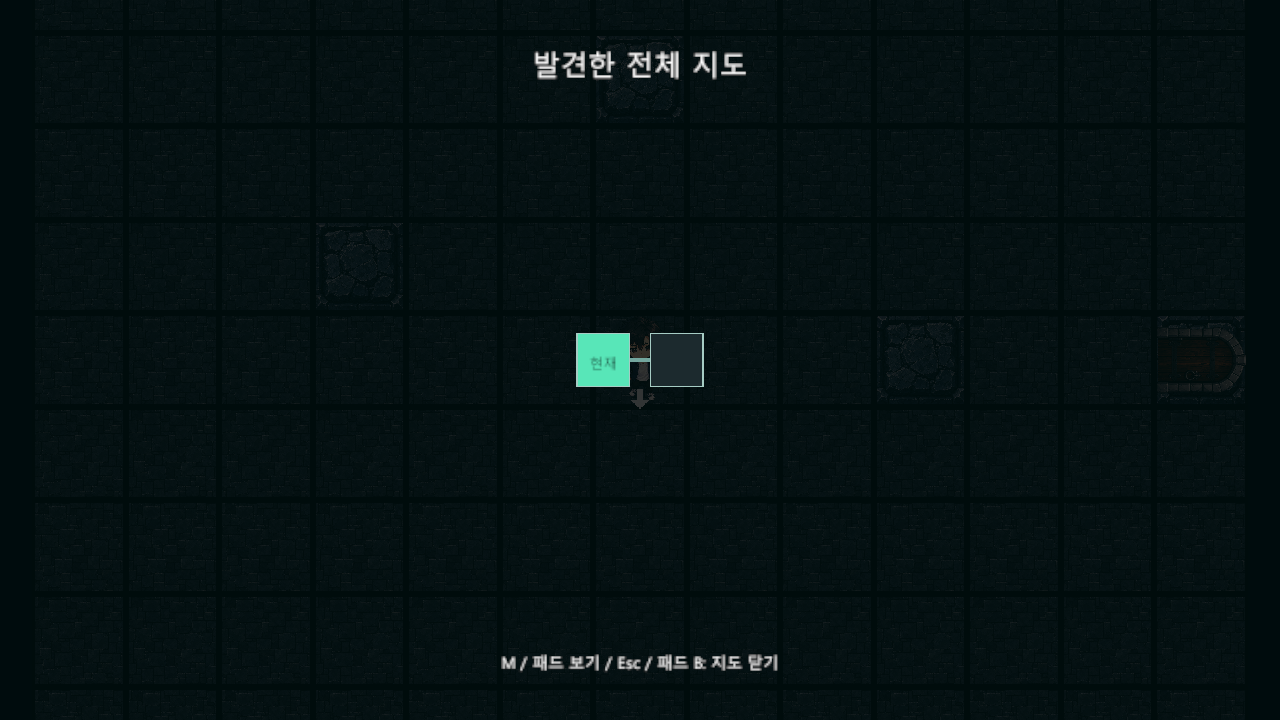
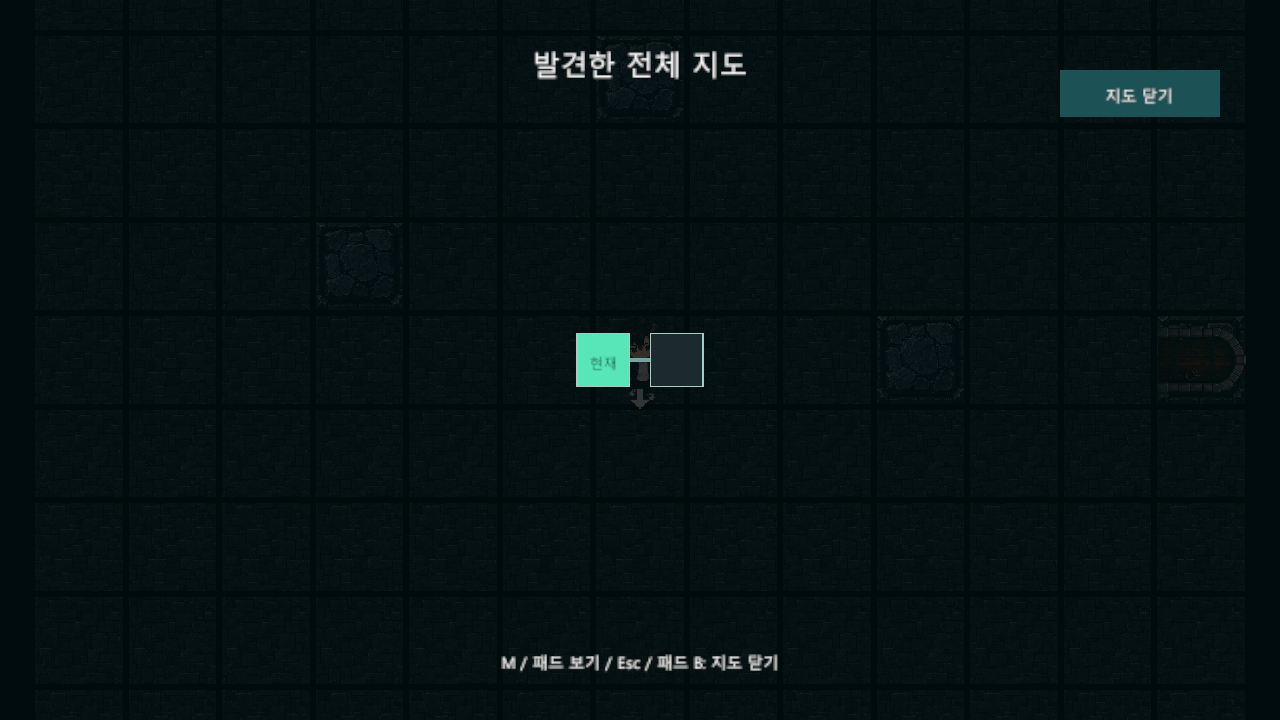
36일차 : 마우스 지도 버튼 추가
- 마우스 전체 지도 열기와 닫기 버튼 추가
- 클릭 이벤트 처리와 탐험 복귀 검증 추가
- 최신 플레이 화면과 검증 기록 수정

Changed region(s): [[0.8125, 0.0917, 0.9688, 0.1833]]

diff --git a/Assets/ProjectDelta/Runtime/MapPointerButton.cs b/Assets/ProjectDelta/Runtime/MapPointerButton.cs
@@ -1,0 +1,53 @@
+using System; // 버튼 동작 전달
+using UnityEngine; // 화면 위치와 객체
+using UnityEngine.InputSystem; // 마우스 입력
+using UnityEngine.UI; // 버튼 배경 표시
+namespace ProjectDelta.Runtime // 실행 이름 공간
+{ // 이름 공간 시작
+    public sealed class MapPointerButton : MonoBehaviour // 지도 화면용 마우스 버튼
+    { // 클래스 시작
+        private RectTransform rect; // 버튼 화면 영역
+        private Action action; // 클릭 시 실행할 동작
+        private int createdFrame; // 버튼 생성 프레임
+        private InputAction click; // 마우스 클릭 감지 동작
+        public static MapPointerButton Create(Transform parent, string name, string label, Vector2 position, Action onClick) // 지도 버튼 생성
+        { // 생성 시작
+            var button = new GameObject(name, typeof(RectTransform), typeof(Image), typeof(MapPointerButton)); // 버튼 화면 객체
+            button.transform.SetParent(parent, false); // 지정 화면에 배치
+            var view = button.GetComponent<MapPointerButton>(); // 버튼 입력 제어
+            view.rect = button.GetComponent<RectTransform>(); // 버튼 영역 연결
+            view.rect.anchoredPosition = position; // 버튼 화면 위치
+            view.rect.sizeDelta = new Vector2(240f, 70f); // 버튼 표시 크기
+            view.action = onClick; // 실제 클릭 동작 연결
+            view.createdFrame = Time.frameCount; // 생성 프레임의 중복 클릭 차단
+            view.click = new InputAction(name + "Click", InputActionType.Button, "<Mouse>/leftButton"); // 개별 마우스 클릭 감지
+            view.click.performed += view.OnClick; // 입력 이벤트 연결
+            view.click.Enable(); // 마우스 클릭 감지 시작
+            var image = button.GetComponent<Image>(); // 버튼 배경 이미지
+            image.color = new Color(0.12f, 0.32f, 0.34f, 0.96f); // 선명한 버튼 배경
+            image.raycastTarget = false; // 다른 UI 입력 가림 방지
+            UiFactory.CreateText(button.transform, "Label", label, 25, Vector2.zero, view.rect.sizeDelta, Color.white); // 버튼 이름 표시
+            return view; // 완성한 버튼 전달
+        } // 생성 끝
+        private void OnClick(InputAction.CallbackContext context) // 마우스 클릭 위치 검사
+        { // 클릭 검사 시작
+            var mouse = context.control.device as Mouse; // 실제 클릭한 마우스 장치
+            if (Time.frameCount <= createdFrame || mouse == null) // 생성 프레임과 장치 검사
+            { // 입력 제외 조건 시작
+                return; // 열린 화면의 중복 클릭 차단
+            } // 입력 제외 조건 끝
+            if (RectTransformUtility.RectangleContainsScreenPoint(rect, mouse.position.ReadValue(), null)) // 버튼 안쪽 클릭 검사
+            { // 클릭 조건 시작
+                action?.Invoke(); // 지도 열기 또는 닫기 실행
+            } // 클릭 조건 끝
+        } // 클릭 검사 끝
+        private void OnDestroy() // 마우스 입력 정리
+        { // 정리 시작
+            if (click != null) // 입력 동작 존재 검사
+            { // 정리 조건 시작
+                click.performed -= OnClick; // 클릭 이벤트 연결 해제
+                click.Dispose(); // 입력 동작과 리소스 정리
+            } // 정리 조건 끝
+        } // 정리 끝
+    } // 클래스 끝
+} // 이름 공간 끝

diff --git a/Assets/ProjectDelta/Tests/PlayMode/DungeonRuntimeGenerationTests.cs b/Assets/ProjectDelta/Tests/PlayMode/DungeonRuntimeGenerationTests.cs
@@ -229,6 +229,33 @@ namespace ProjectDelta.Tests // 검증 이름 공간
             yield return null; // 다음 입력 처리 대기
             Assert.That(AppRoot.Instance.Flow.Phase, Is.EqualTo(GamePhase.Exploration)); // 취소가 타이틀 복귀로 전달되지 않음
         } // 검증 끝
+        [UnityTest] // 마우스 전체 지도 열기와 닫기 검증
+        public IEnumerator FullMap_OpensAndClosesWithMouseButtons() // 마우스 버튼의 지도 왕복 확인
+        { // 검증 시작
+            yield return EnterDungeon(); // 실제 던전 진입
+            var mouse = InputSystem.AddDevice<Mouse>(); // 시험 마우스 연결
+            InputSystem.Update(); // 입력 장치 반영
+            yield return null; // 입력 준비 대기
+            var open = GameObject.Find("MapOpenButton"); // 탐험 화면의 지도 열기 버튼
+            Assert.That(open, Is.Not.Null); // 지도 열기 버튼 존재 확인
+            var openPosition = RectTransformUtility.WorldToScreenPoint(null, open.GetComponent<RectTransform>().position); // 열기 버튼 화면 좌표
+            InputSystem.QueueStateEvent(mouse, new MouseState { position = openPosition }.WithButton(MouseButton.Left)); // 열기 버튼 클릭
+            InputSystem.Update(); // 클릭 입력 반영
+            yield return null; // 지도 열기 처리 대기
+            Assert.That(AppRoot.Instance.Flow.Phase, Is.EqualTo(GamePhase.FullMap)); // 마우스의 지도 진입 확인
+            InputSystem.QueueStateEvent(mouse, new MouseState { position = openPosition }); // 마우스 버튼 해제
+            InputSystem.Update(); // 버튼 해제 반영
+            yield return null; // 해제 처리 대기
+            var close = GameObject.Find("MapCloseButton"); // 지도 화면의 닫기 버튼
+            Assert.That(close, Is.Not.Null); // 지도 닫기 버튼 존재 확인
+            var closePosition = RectTransformUtility.WorldToScreenPoint(null, close.GetComponent<RectTransform>().position); // 닫기 버튼 화면 좌표
+            InputSystem.QueueStateEvent(mouse, new MouseState { position = closePosition }.WithButton(MouseButton.Left)); // 닫기 버튼 클릭
+            InputSystem.Update(); // 클릭 입력 반영
+            yield return null; // 지도 닫기 처리 대기
+            Assert.That(AppRoot.Instance.Flow.Phase, Is.EqualTo(GamePhase.Exploration)); // 마우스의 탐험 복귀 확인
+            Assert.That(AppRoot.Instance.Input.IsExplorationEnabled, Is.True); // 탐험 입력 복구 확인
+            InputSystem.RemoveDevice(mouse); // 시험 마우스 연결 해제
+        } // 검증 끝
         [UnityTest] // 게임패드의 전체 지도 열기와 닫기 검증
         public IEnumerator FullMap_TogglesWithGamepadSelect() // 보기 버튼의 지도 왕복 확인
         { // 검증 시작

diff --git a/Assets/ProjectDelta/Runtime/FullMapScreenView.cs b/Assets/ProjectDelta/Runtime/FullMapScreenView.cs
@@ -26,6 +26,7 @@ namespace ProjectDelta.Runtime // 실행 이름 공간
                 backImage.raycastTarget = false; // 다른 입력 방해 방지
                 UiFactory.CreateText(canvas.transform, "Title", "발견한 전체 지도", 42, new Vector2(0f, 450f), new Vector2(1000f, 80f), Color.white); // 지도 제목
                 UiFactory.CreateText(canvas.transform, "CloseHint", "M / 패드 보기 / Esc / 패드 B: 지도 닫기", 24, new Vector2(0f, -450f), new Vector2(1100f, 60f), Color.white); // 지도 닫기 안내
+                MapPointerButton.Create(canvas.transform, "MapCloseButton", "지도 닫기", new Vector2(750f, 400f), AppRoot.Instance.CloseFullMap); // 마우스 지도 닫기 버튼
                 DrawMap(canvas.transform, travel); // 발견된 방과 연결 표시
                 return screen.GetComponent<FullMapScreenView>(); // 완성한 지도 화면 전달
             } // 구성 끝

diff --git a/Assets/ProjectDelta/Runtime/DungeonScreenView.cs b/Assets/ProjectDelta/Runtime/DungeonScreenView.cs
@@ -28,6 +28,7 @@ namespace ProjectDelta.Runtime // 실행 이름 공간
             DungeonMiniMap.Create(canvas.transform, travel); // 발견한 방의 미니맵 생성
             if (AppRoot.Instance != null) // 공통 게임 객체 존재 검사
             { // 인벤토리 연결 시작
+                MapPointerButton.Create(canvas.transform, "MapOpenButton", "전체 지도", new Vector2(750f, 190f), AppRoot.Instance.OpenFullMap); // 마우스 지도 열기 버튼
                 AppRoot.Instance.InventoryClosed += ClearDoorNotice; // 인벤토리 복귀 시 안내 초기화
             } // 인벤토리 연결 끝
             if (travel != null && travel.IsReady) // 생성된 방 구조와 실제 상태 검사

diff --git a/Assets/ProjectDelta/Editor/DayThirtySixProjectSetup.cs b/Assets/ProjectDelta/Editor/DayThirtySixProjectSetup.cs
@@ -1,0 +1,12 @@
+using UnityEditor; // 편집기 메뉴
+namespace ProjectDelta.Editor // 제작 도구 이름 공간
+{ // 이름 공간 시작
+    public static class DayThirtySixProjectSetup // 36일차 Windows 빌드
+    { // 클래스 시작
+        [MenuItem("Project Delta/36일차/Windows 빌드")] // 편집기 빌드 메뉴
+        public static void BuildWindows() // 36일차 실행 파일 빌드
+        { // 빌드 시작
+            DayOneProjectSetup.BuildWindowsAt("Builds/Day36"); // 기존 빌드와 분리된 출력 경로
+        } // 빌드 끝
+    } // 클래스 끝
+} // 이름 공간 끝

diff --git a/README.md b/README.md
@@ -22,7 +22,7 @@
 
 Unity Hub에서 저장소 폴더를 프로젝트로 추가하고 `Assets/ProjectDelta/Scenes/BootstrapScene.unity`를 열어 Play를 실행한다.
 
-타이틀에서 새 게임을 선택하면 던전에 진입하고, 관찰 기록을 선택하면 저장된 시험 대상의 정보를 확인할 수 있다. 던전에서 WASD·방향키·게임패드 방향 입력으로 한 칸씩 이동하고, Esc 또는 게임패드의 취소 버튼으로 타이틀에 복귀한다. SD 주인공 아래의 흰 화살표는 바라보는 방향, 돌무더기는 장애물, 갈색 문은 출구다. 타일과 플레이어는 기존보다 가로·세로 두 배 크기이며, 검은 테두리로 각 칸을 구분한다. 카메라는 방의 범위를 고려해 플레이어를 따라간다. 방을 이동할 때 화면이 부드럽게 전환된다. 미니맵은 현재 방을 중심으로 주변 5×5 범위의 발견한 방과 연결을 표시한다. 직접 방문한 계단 방에는 파란 표시가 나타난다. M 키 또는 게임패드 보기 버튼으로 발견한 방의 전체 지도를 열고 같은 버튼, Esc 또는 패드 B로 닫을 수 있다. 문 앞에서 문 방향으로 마지막 이동을 마친 뒤 E 또는 게임패드의 남쪽 버튼을 누르면 다른 방으로 이동한다. 도착 직후 돌아가려면 방 안쪽으로 한 칸 이동한 뒤 문 쪽으로 돌아와 상호작용한다. 계단 방 중앙의 파란 화살표에 서서 E 또는 게임패드 남쪽 버튼을 누르면 다음 층으로 이동한다. 상위 개체 방에서 분홍 대상 주변 한 칸에 이동을 마치면 조우 화면이 열리고, 전투를 선택하면 시험 전투가 시작된다. 조우 화면에서 도망에 성공하면 이전 방으로 돌아가며 대상은 남는다. 조우 도망 실패나 동점은 전투로 이어진다. 회유에 성공하면 시험 조우를 보상 없이 평화적으로 끝내며 실패하면 전투로 이어진다. 매력과 저항은 시험 수치다. 관찰에 성공하면 시험 상대의 체력과 공격 성향을 확인할 수 있다. 관찰 기록은 2D 전용 저장 파일에 보관되어 새 게임과 재시작 이후에도 유지된다. 정식 도감 목록과 대상별 회유 결과·유혹·아이템 선택은 후속 작업이다. 전투에서 기본 공격·방어·회복약을 사용하면 적도 기본 공격으로 대응한다. 시험 회복약은 실제 회복에 성공할 때 한 개와 행동을 소비한다. 방어는 행동을 소모해 다음 자신의 차례까지 직접 피해를 줄인다. 일반 전투 후퇴는 플레이어와 가장 빠른 생존 적의 속도에 각각 1~20 주사위를 더해 비교하며 동점은 실패한다. 성공하면 보상 없이 같은 층의 이전 방으로 돌아가고, 시험 적의 남은 체력과 미완료 상태가 유지된다. 실패하면 행동을 소모해 적의 차례가 진행된다. 승리하면 해당 조우가 완료되고 기존 방으로 복귀한다. 패배하면 타이틀로 돌아간다. 전투 후 체력은 유지되며 층 이동에 성공하면 회복된다. 탐험 중 I 또는 게임패드 북쪽 버튼으로 인벤토리를 열고 닫는다. 슬롯을 선택한 뒤 다른 슬롯을 선택하거나 마우스로 끌어 놓아 아이템을 이동·교환할 수 있다. 선택 중 취소하면 이동을 중단한다. 시험 아이템을 받을 공간이 없으면 새 아이템을 두고 가거나 기존 묶음을 선택해 확인 후 교체할 수 있다. 시험 소형 회복약은 탐험 인벤토리에서 체력을 최대 25 회복하며, 체력이 최대일 때는 소비되지 않는다. 보라색으로 표시된 문은 시험용 잠긴 문이며, 인벤토리에서 지급한 시험 열쇠 하나를 사용해 양방향으로 열 수 있다. 잠긴 문 앞에서 F 또는 게임패드 서쪽 버튼으로 공격력 판정을 통한 강제 개방을 한 번 시도할 수도 있다. 실패 후에도 열쇠로 열 수 있다. 현재 판정의 공격력 50과 문 난이도 50은 시험값이다.
+타이틀에서 새 게임을 선택하면 던전에 진입하고, 관찰 기록을 선택하면 저장된 시험 대상의 정보를 확인할 수 있다. 던전에서 WASD·방향키·게임패드 방향 입력으로 한 칸씩 이동하고, Esc 또는 게임패드의 취소 버튼으로 타이틀에 복귀한다. SD 주인공 아래의 흰 화살표는 바라보는 방향, 돌무더기는 장애물, 갈색 문은 출구다. 타일과 플레이어는 기존보다 가로·세로 두 배 크기이며, 검은 테두리로 각 칸을 구분한다. 카메라는 방의 범위를 고려해 플레이어를 따라간다. 방을 이동할 때 화면이 부드럽게 전환된다. 미니맵은 현재 방을 중심으로 주변 5×5 범위의 발견한 방과 연결을 표시한다. 직접 방문한 계단 방에는 파란 표시가 나타난다. M 키 또는 게임패드 보기 버튼으로 발견한 방의 전체 지도를 열고 같은 버튼, Esc 또는 패드 B로 닫을 수 있다. 탐험 화면과 지도 화면의 버튼을 마우스로 눌러 열고 닫을 수도 있다. 문 앞에서 문 방향으로 마지막 이동을 마친 뒤 E 또는 게임패드의 남쪽 버튼을 누르면 다른 방으로 이동한다. 도착 직후 돌아가려면 방 안쪽으로 한 칸 이동한 뒤 문 쪽으로 돌아와 상호작용한다. 계단 방 중앙의 파란 화살표에 서서 E 또는 게임패드 남쪽 버튼을 누르면 다음 층으로 이동한다. 상위 개체 방에서 분홍 대상 주변 한 칸에 이동을 마치면 조우 화면이 열리고, 전투를 선택하면 시험 전투가 시작된다. 조우 화면에서 도망에 성공하면 이전 방으로 돌아가며 대상은 남는다. 조우 도망 실패나 동점은 전투로 이어진다. 회유에 성공하면 시험 조우를 보상 없이 평화적으로 끝내며 실패하면 전투로 이어진다. 매력과 저항은 시험 수치다. 관찰에 성공하면 시험 상대의 체력과 공격 성향을 확인할 수 있다. 관찰 기록은 2D 전용 저장 파일에 보관되어 새 게임과 재시작 이후에도 유지된다. 정식 도감 목록과 대상별 회유 결과·유혹·아이템 선택은 후속 작업이다. 전투에서 기본 공격·방어·회복약을 사용하면 적도 기본 공격으로 대응한다. 시험 회복약은 실제 회복에 성공할 때 한 개와 행동을 소비한다. 방어는 행동을 소모해 다음 자신의 차례까지 직접 피해를 줄인다. 일반 전투 후퇴는 플레이어와 가장 빠른 생존 적의 속도에 각각 1~20 주사위를 더해 비교하며 동점은 실패한다. 성공하면 보상 없이 같은 층의 이전 방으로 돌아가고, 시험 적의 남은 체력과 미완료 상태가 유지된다. 실패하면 행동을 소모해 적의 차례가 진행된다. 승리하면 해당 조우가 완료되고 기존 방으로 복귀한다. 패배하면 타이틀로 돌아간다. 전투 후 체력은 유지되며 층 이동에 성공하면 회복된다. 탐험 중 I 또는 게임패드 북쪽 버튼으로 인벤토리를 열고 닫는다. 슬롯을 선택한 뒤 다른 슬롯을 선택하거나 마우스로 끌어 놓아 아이템을 이동·교환할 수 있다. 선택 중 취소하면 이동을 중단한다. 시험 아이템을 받을 공간이 없으면 새 아이템을 두고 가거나 기존 묶음을 선택해 확인 후 교체할 수 있다. 시험 소형 회복약은 탐험 인벤토리에서 체력을 최대 25 회복하며, 체력이 최대일 때는 소비되지 않는다. 보라색으로 표시된 문은 시험용 잠긴 문이며, 인벤토리에서 지급한 시험 열쇠 하나를 사용해 양방향으로 열 수 있다. 잠긴 문 앞에서 F 또는 게임패드 서쪽 버튼으로 공격력 판정을 통한 강제 개방을 한 번 시도할 수도 있다. 실패 후에도 열쇠로 열 수 있다. 현재 판정의 공격력 50과 문 난이도 50은 시험값이다.
 
 오른쪽 위 미니맵은 현재 방과 방향을 초록색으로, 방문한 방을 밝은색으로 표시한다. 연결만 확인한 미방문 방은 어두운 윤곽으로 나타나며, 아직 확인하지 못한 방과 비밀 통로는 숨긴다. 새 게임을 시작하면 방문 기록이 초기화된다.
 
@@ -42,7 +42,7 @@ Unity Hub에서 저장소 폴더를 프로젝트로 추가하고 `Assets/Project
 ---
 ## 검증과 빌드
 
-PowerShell에서 `Tools/Run-DayThirtyFiveChecks.ps1 -Check EditMode`, `-Check PlayMode`, `-Check Build`로 실행한다. 편집기 경로가 다르면 `-UnityPath`로 지정한다. 플레이 화면을 창을 띄우지 않고 캡처하려면 `-Check Screenshot`을 사용한다. Windows 테스트 실행 파일 검증은 `-Check PlayerTests`를 사용한다. 원본 프로젝트가 Unity에서 열려 있으면 별도 프로젝트 복사본에서 테스트한다.
+PowerShell에서 `Tools/Run-DayThirtySixChecks.ps1 -Check EditMode`, `-Check PlayMode`, `-Check Build`로 실행한다. 편집기 경로가 다르면 `-UnityPath`로 지정한다. 플레이 화면을 창을 띄우지 않고 캡처하려면 `-Check Screenshot`을 사용한다. Windows 테스트 실행 파일 검증은 `-Check PlayerTests`를 사용한다. 원본 프로젝트가 Unity에서 열려 있으면 별도 프로젝트 복사본에서 테스트한다.
 
 기본 씬 재생성은 Unity 메뉴 `Project Delta/1일차/기본 씬 재생성`으로 실행한다. 생성기는 해당 기본 씬 세 개를 덮어쓰므로 씬 편집 후에는 변경을 먼저 보존한다.
 
@@ -52,4 +52,4 @@ PowerShell에서 `Tools/Run-DayThirtyFiveChecks.ps1 -Check EditMode`, `-Check Pl
 
 세 번째 방과 지도를 구성하는 메뉴는 `Project Delta/4일차/시험 방과 지도 구성`이다. 기존 방·문 설정이 시험 구성과 다르거나 새 출구 칸이 점유되어 있으면 구성을 중단한다.
 
-검증 기록은 `Artifacts`, 35일차 Windows 빌드는 `Builds/Day35`에 생성되며 Git에서 제외한다. 기존 빌드도 각 일차의 경로에 남는다.
+검증 기록은 `Artifacts`, 36일차 Windows 빌드는 `Builds/Day36`에 생성되며 Git에서 제외한다. 기존 빌드도 각 일차의 경로에 남는다.

diff --git a/docs/development/day-036.md b/docs/development/day-036.md
@@ -1,0 +1,18 @@
+---
+# 36일차: 마우스 지도 버튼
+
+---
+## 구현 내용
+
+- 탐험 화면에 마우스용 전체 지도 열기 버튼 추가.
+- 전체 지도 화면에 마우스용 닫기 버튼 추가.
+- 마우스 입력 이벤트를 사용해 클릭을 놓치지 않도록 처리.
+- 기존 키보드·게임패드 지도 입력과 탐험 상태 복구 유지.
+- 실제 지도 버튼 화면을 README에 갱신.
+
+---
+## 검증 결과
+
+- 별도 Unity 프로젝트에서 EditMode 테스트 149개와 PlayMode 테스트 99개 통과.
+- 실제 마우스 클릭의 지도 열기·닫기와 기존 입력 검증.
+- 실제 지도 화면 캡처와 Windows 빌드 성공. 사용자 화면 보호를 위해 실행 파일 테스트는 실행하지 않음.

diff --git a/docs/superpowers/specs/2026-10-29-day36-mouse-map-design.md b/docs/superpowers/specs/2026-10-29-day36-mouse-map-design.md
@@ -1,0 +1,15 @@
+---
+# 36일차 마우스 지도 버튼 설계
+
+---
+## 범위
+
+- 탐험 화면에 마우스용 전체 지도 열기 버튼 추가.
+- 전체 지도 화면에 마우스용 닫기 버튼 추가.
+- 기존 키보드·게임패드 입력, 지도 상태와 비공개 정보 보호 유지.
+- 클릭 입력의 이벤트 처리와 화면 상태 복구 검증.
+
+---
+## 검증
+
+별도 Unity 프로젝트에서 실제 마우스 이벤트의 열기·닫기, 기존 입력과 실제 화면을 확인한다.

diff --git a/docs/superpowers/plans/2026-10-29-day36-mouse-map.md b/docs/superpowers/plans/2026-10-29-day36-mouse-map.md
@@ -1,0 +1,7 @@
+---
+# 36일차 구현 계획
+
+1. 전체 지도에서 마우스 조작 부재 확인.
+2. 입력 이벤트를 사용하는 지도 열기와 닫기 버튼 추가.
+3. 별도 Unity 프로젝트에서 실제 마우스와 회귀 테스트 및 빌드 확인.
+4. 최신 실제 화면을 README에 반영하고 커밋과 푸시.
